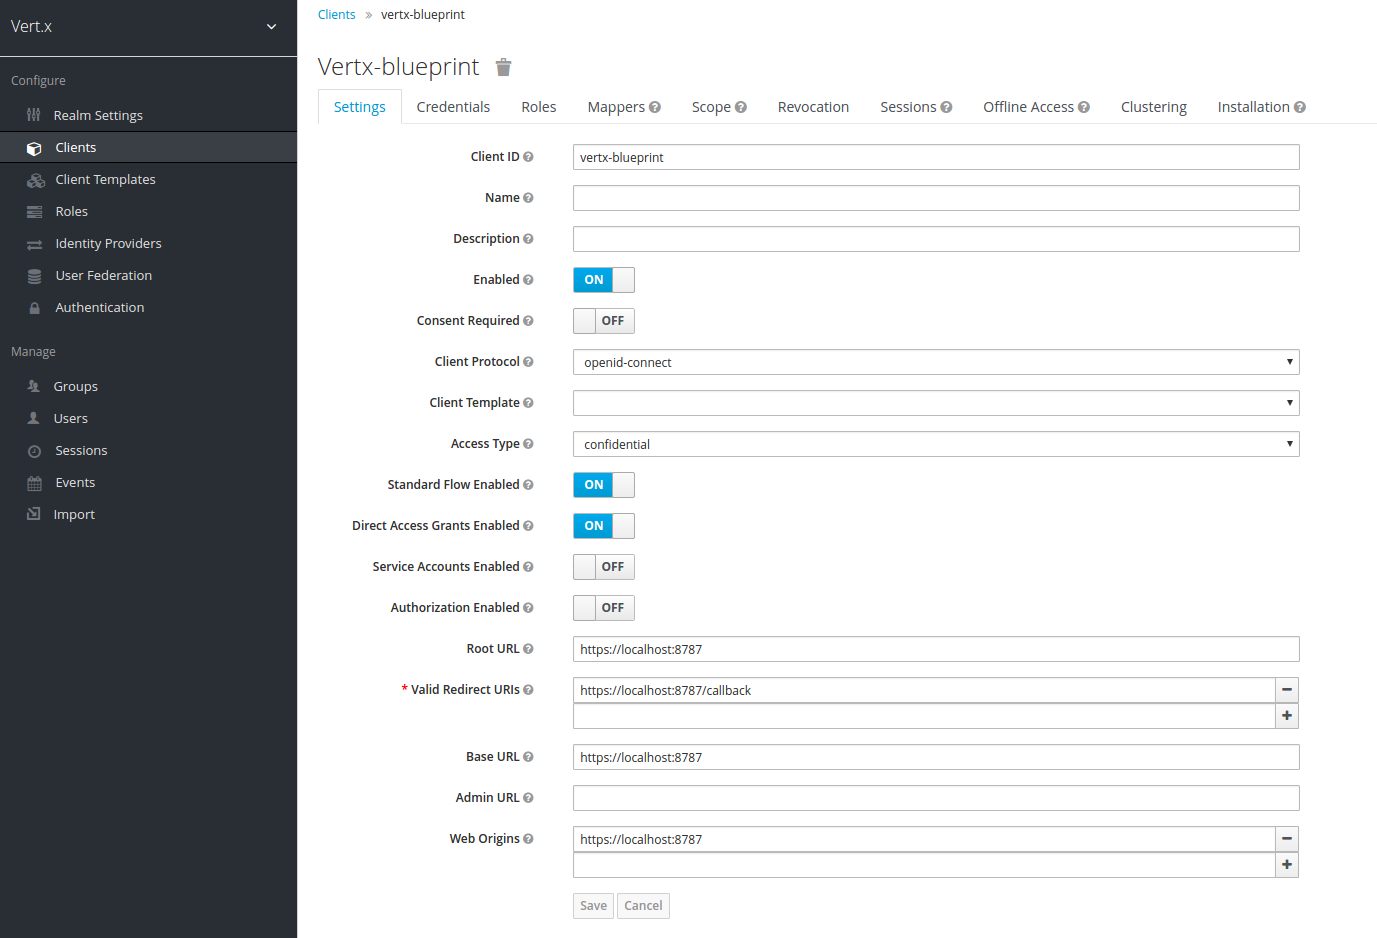
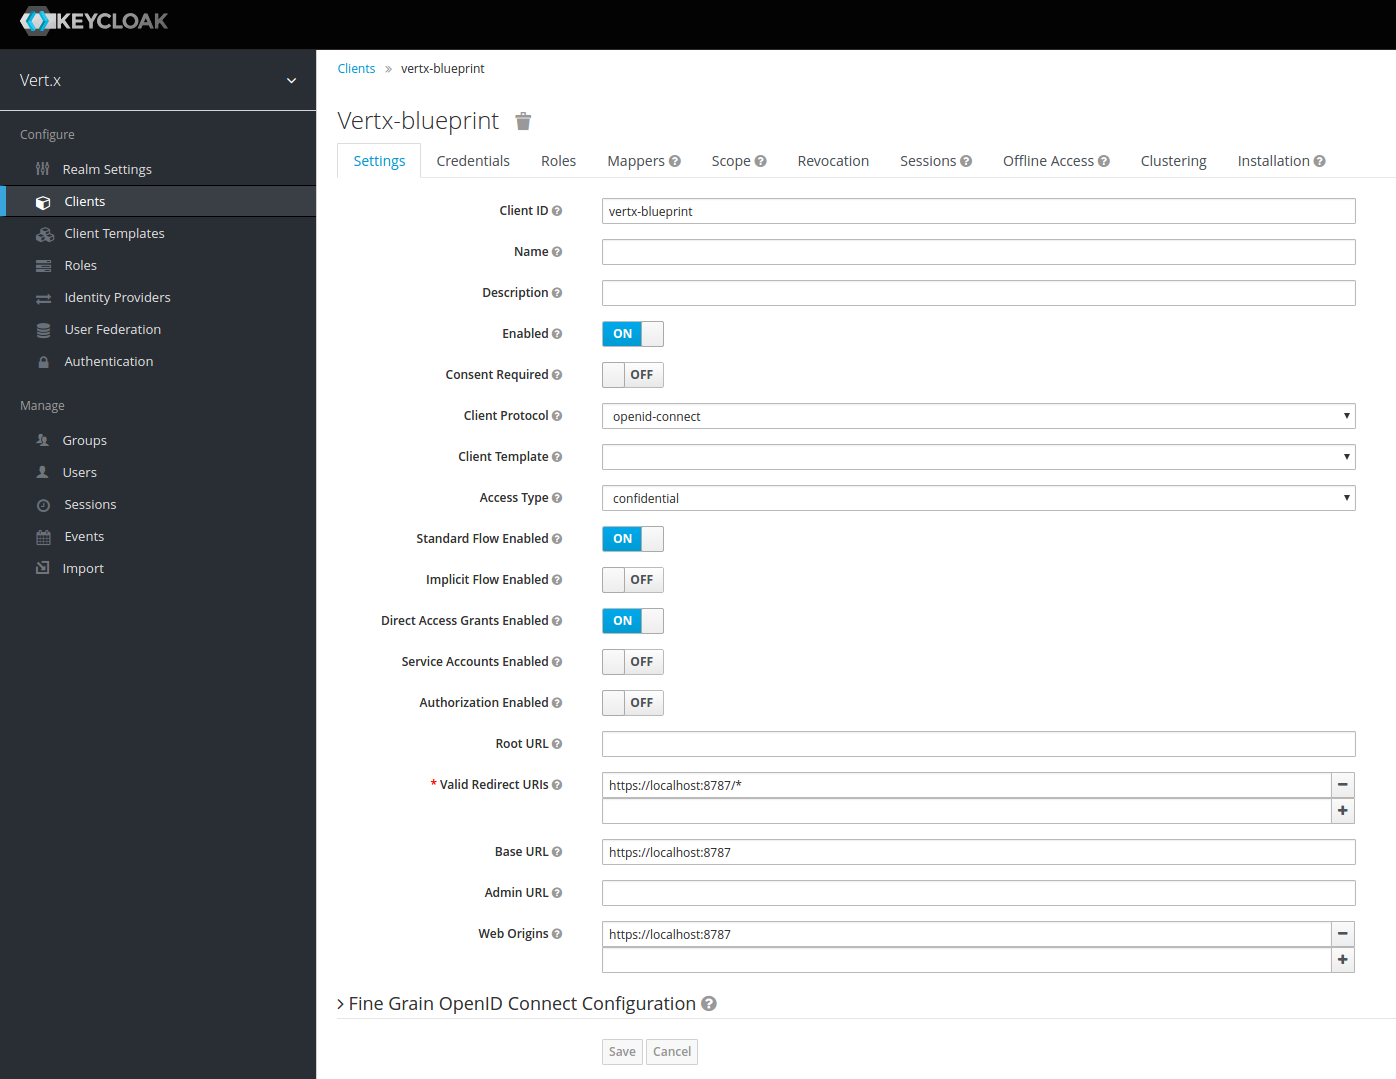
Fix some bugs and problems
- Fix the bug where the order dispatcher verticle should release the client resources after all async operations have been done
- Fix the config server typo in inventory module
- Adapt the API gateway component for demo (in account fetch methods)
- Update configuration for Docker Compose
- Update the latest screenshot for Keycloak configuration

Changed region(s): [[0.0, 0.0, 1.0, 1.0], [0.6558, 0.0928, 0.968, 0.1546], [0.0, 0.371, 0.0937, 0.5565]]

diff --git a/order-microservice/src/main/java/io/vertx/blueprint/microservice/order/RawOrderDispatcher.java b/order-microservice/src/main/java/io/vertx/blueprint/microservice/order/RawOrderDispatcher.java
@@ -106,7 +106,6 @@ public class RawOrderDispatcher extends BaseMicroserviceVerticle {
             } else {
               resultFuture.fail(response.statusMessage());
             }
-            ServiceDiscovery.releaseServiceObject(discovery, client);
           })
             .exceptionHandler(resultFuture::fail)
             .end();
@@ -120,6 +119,7 @@ public class RawOrderDispatcher extends BaseMicroserviceVerticle {
         } else {
           future.fail(ar.cause());
         }
+        ServiceDiscovery.releaseServiceObject(discovery, client); // Release the resources.
       });
       return future;
     });

diff --git a/api-gateway/src/main/java/io/vertx/blueprint/microservice/gateway/APIGatewayVerticle.java b/api-gateway/src/main/java/io/vertx/blueprint/microservice/gateway/APIGatewayVerticle.java
@@ -247,7 +247,8 @@ public class APIGatewayVerticle extends RestAPIVerticle {
   private void authUaaHandler(RoutingContext context) {
     if (context.user() != null) {
       JsonObject principal = context.user().principal();
-      String username = KeycloakHelper.preferredUsername(principal);
+      String username = null;  // TODO: Only for demo. Complete this in next version.
+      // String username = KeycloakHelper.preferredUsername(principal);
       if (username == null) {
         context.response()
           .putHeader("content-type", "application/json")
